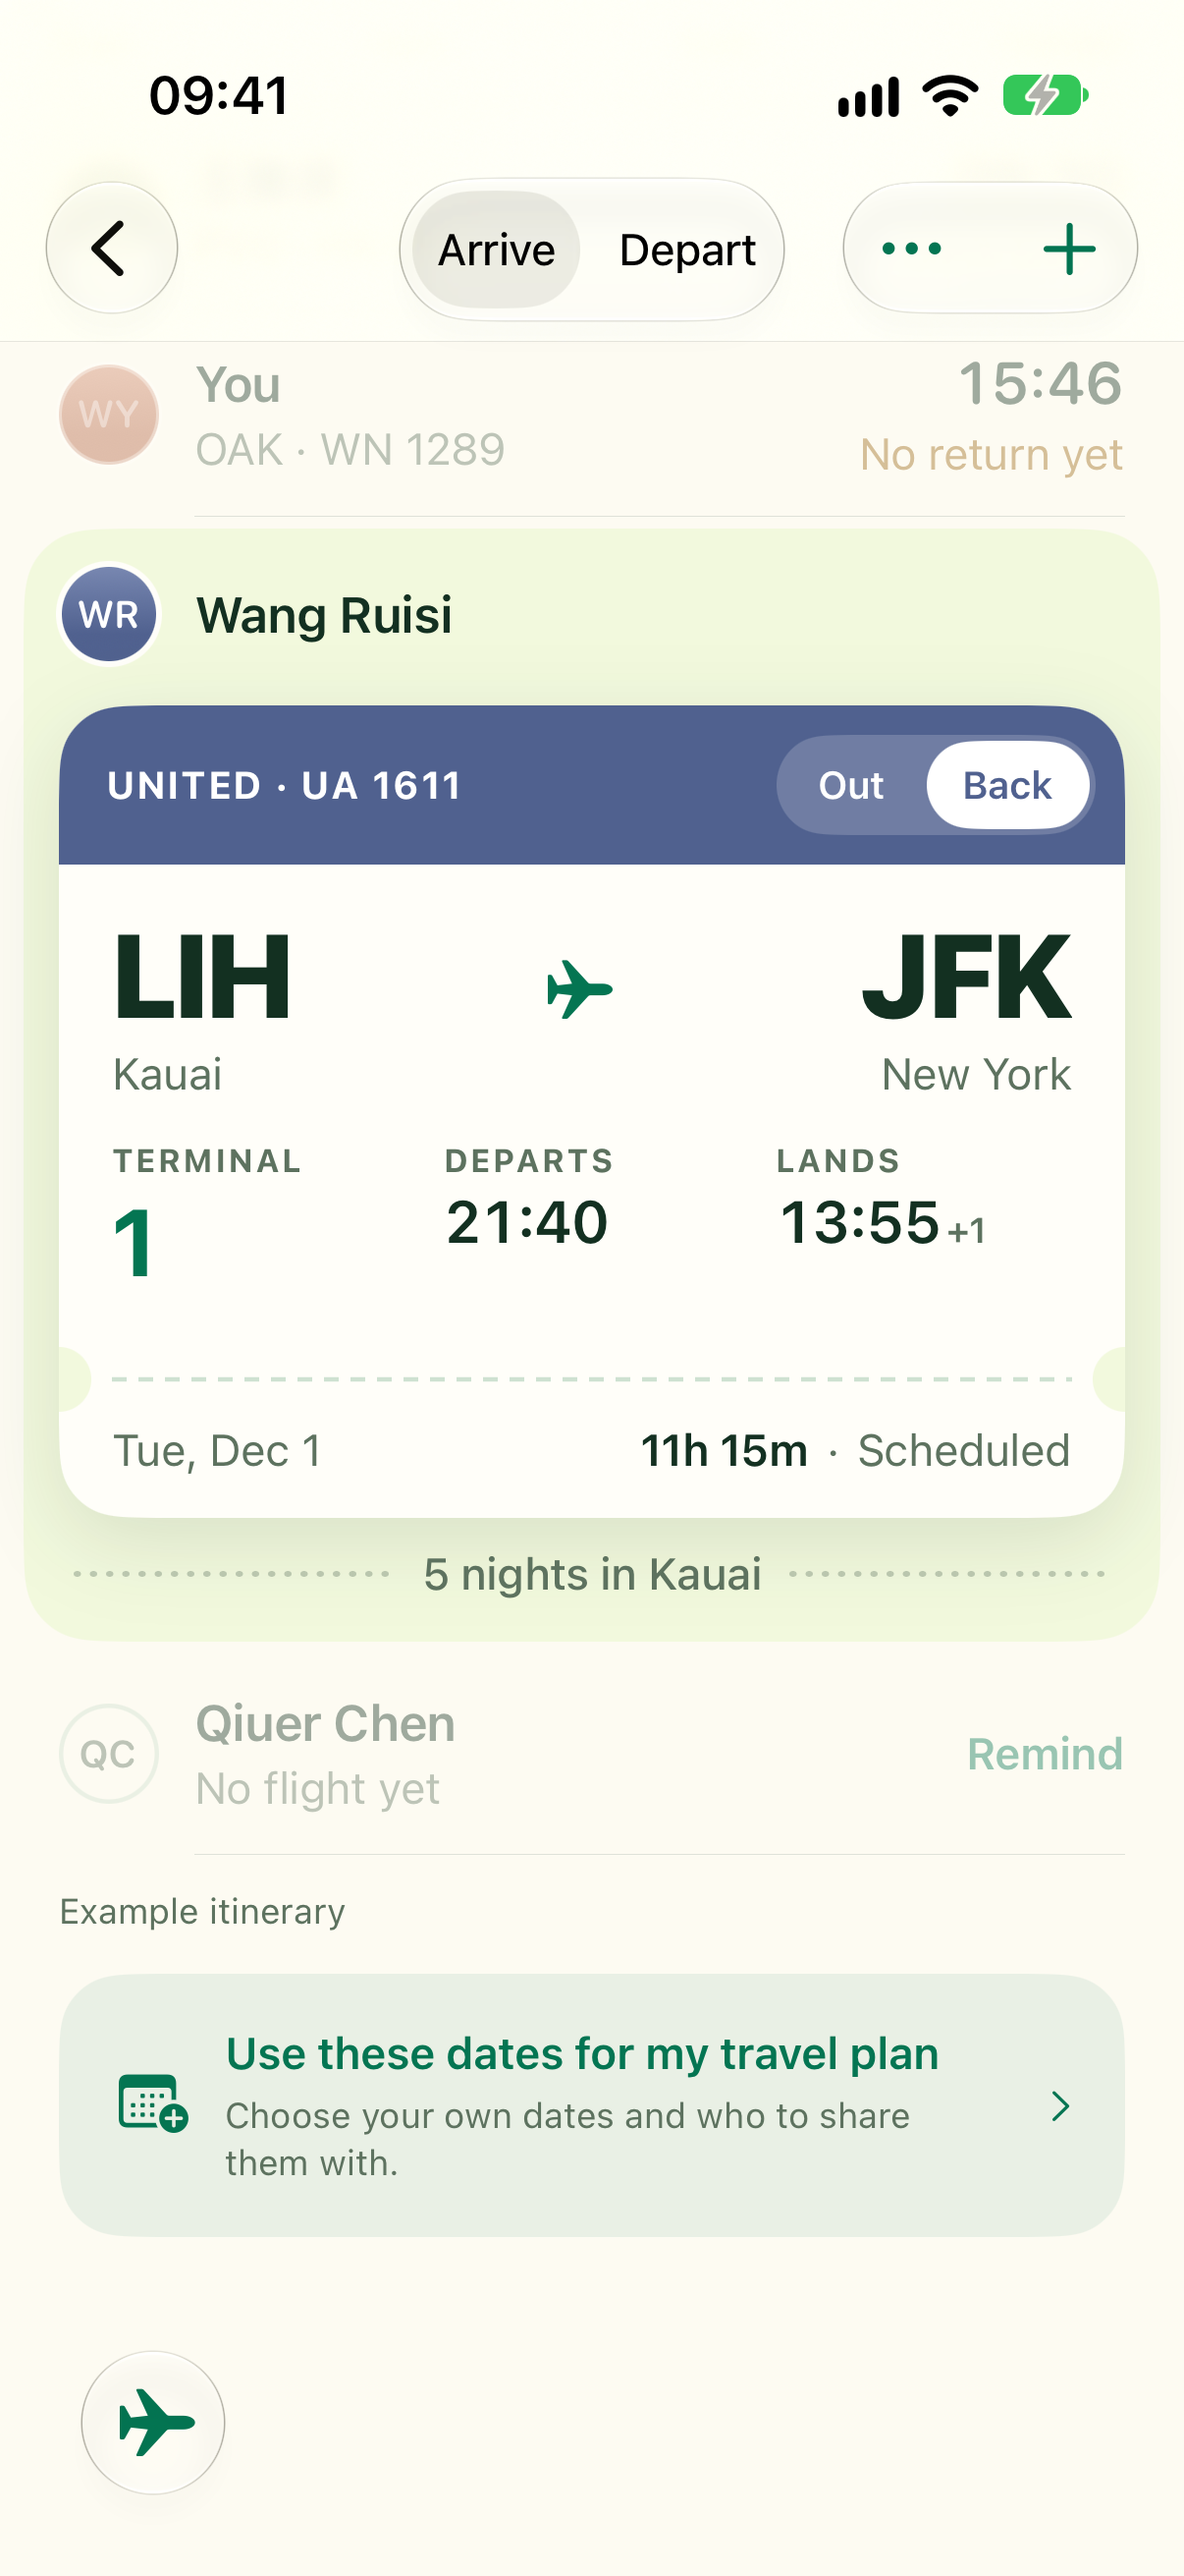
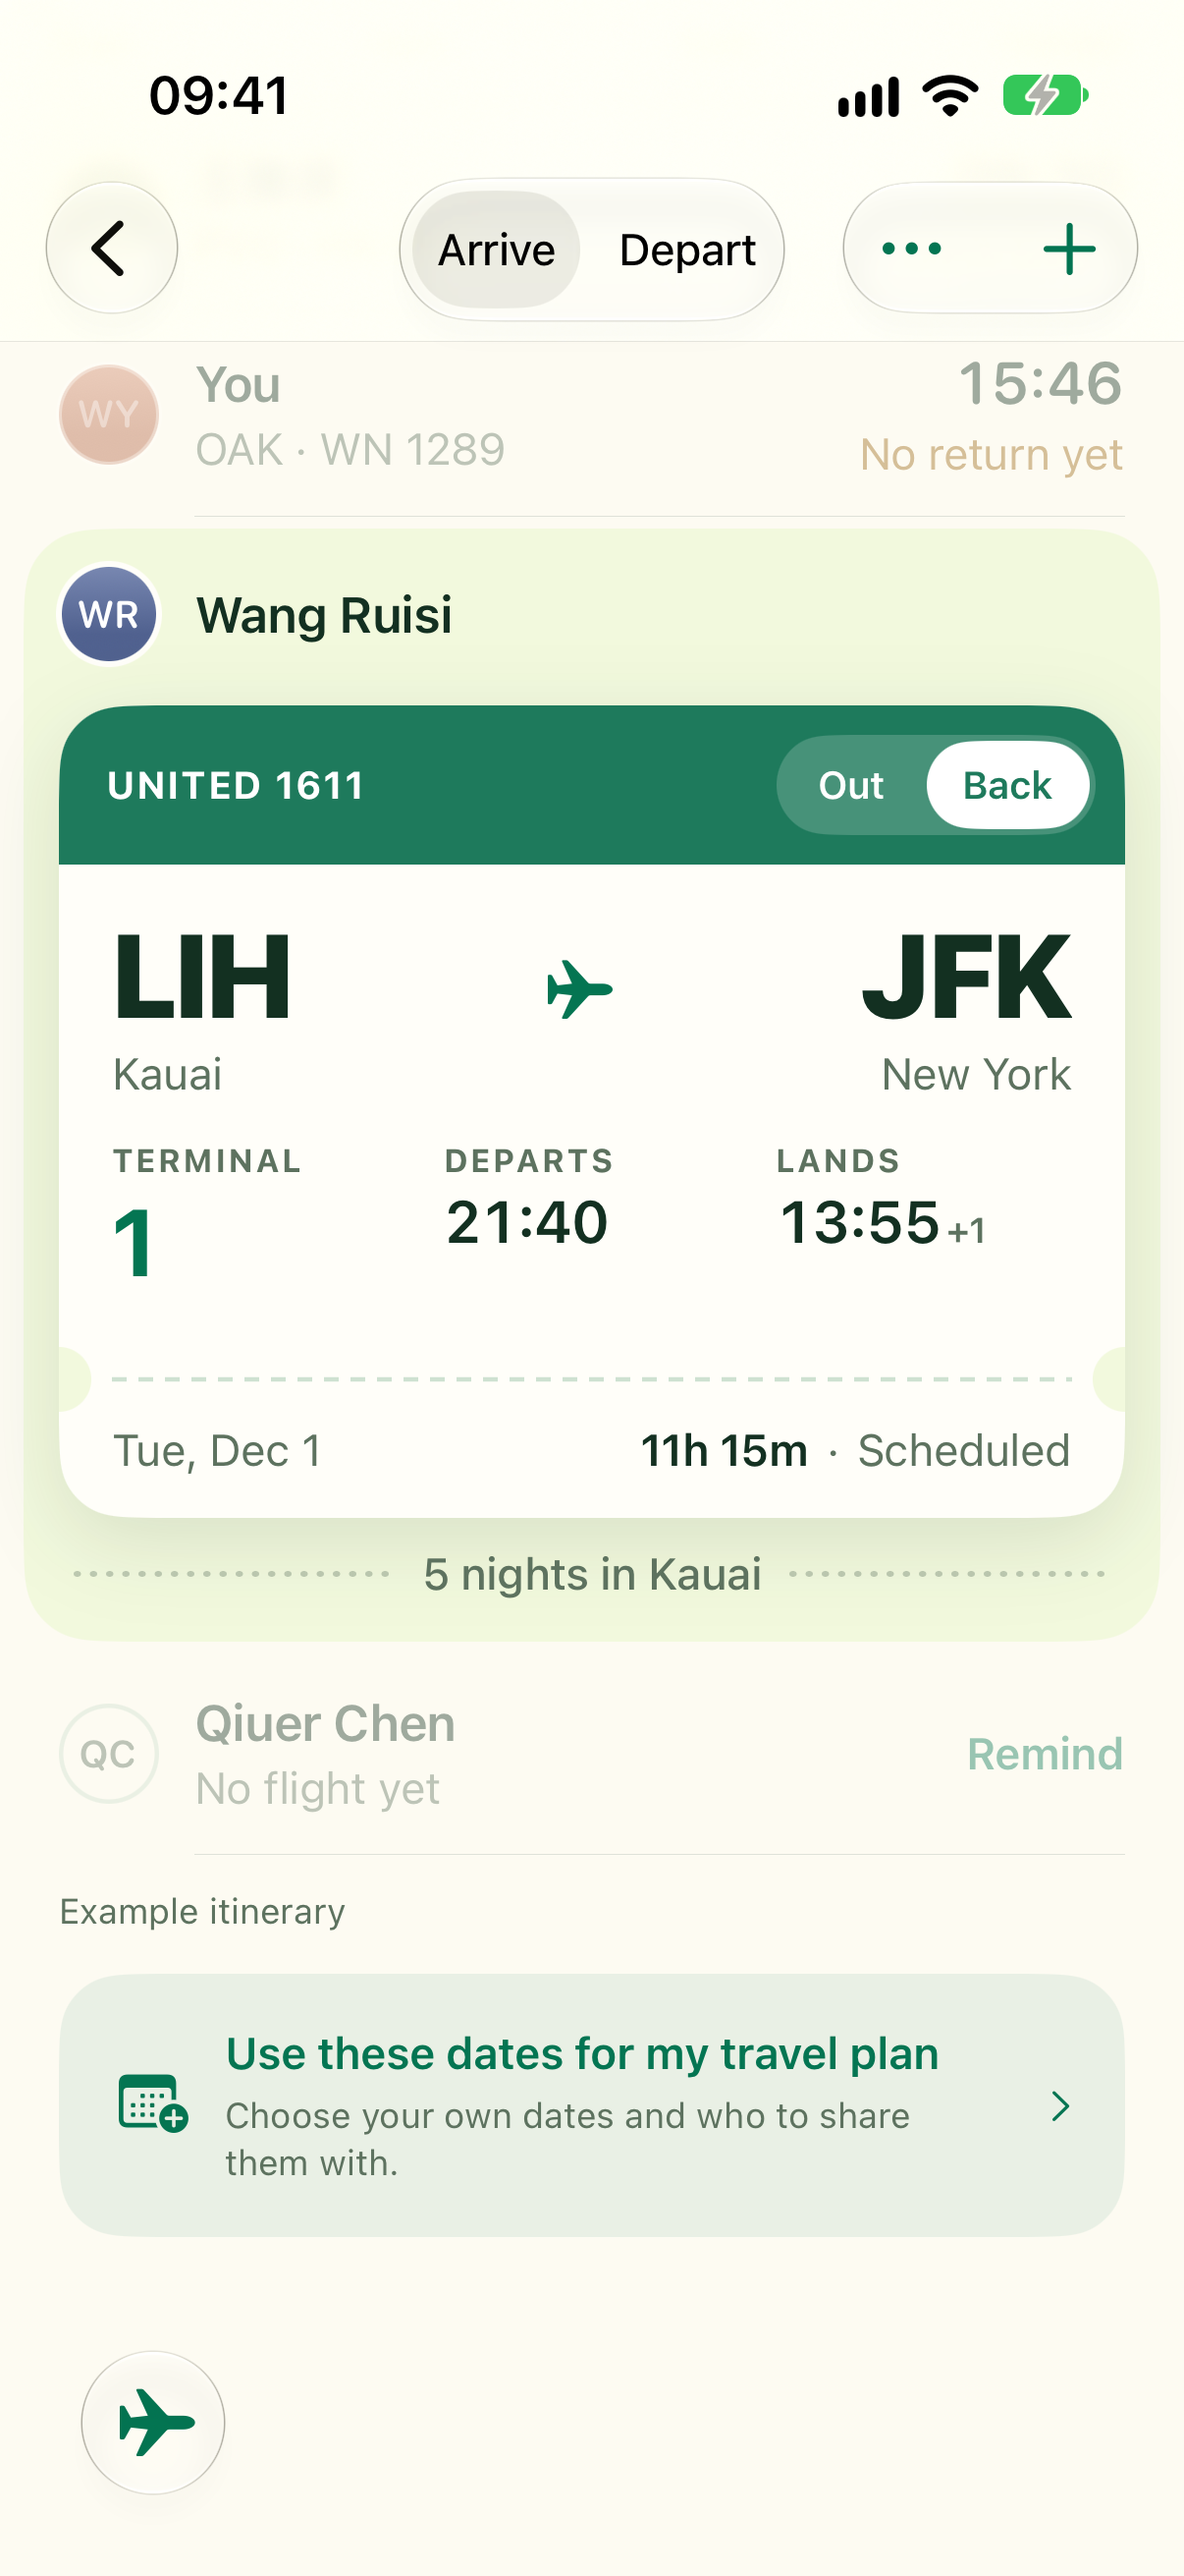
Give every boarding pass the app's jade band
Passes took each traveler's avatar color, so Ruisi's band came out slate
blue and others would be ochre or terracotta. Every pass now uses the app's
jade; a person's color stays on their avatar. The band reads like a printed
pass ("UNITED 1612"), as in the approved mock.

Changed region(s): [[0.0307, 0.2471, 0.9511, 0.3398]]

diff --git a/WhereIsMyFriend/Features/Trips/TripGlobeBoard.swift b/WhereIsMyFriend/Features/Trips/TripGlobeBoard.swift
@@ -594,6 +594,9 @@ struct TripBoardingPass: View {
 
     /// The opened row's background; the pass's notches are cut in this color.
     static var wash: Color { WIFTheme.freshSurface.opacity(0.32) }
+    /// Every pass wears the app's jade, whoever it belongs to; a person's own color stays on their avatar,
+    /// so the screen keeps one signature color instead of a different band per traveler.
+    static let band = WIFPersonPalette.fills[0]
 
     private var shown: TripDirection { face ?? leg }
     private var flight: TripFlight? { traveler.flight(shown) }
@@ -647,19 +650,23 @@ struct TripBoardingPass: View {
             .background(.white.opacity(0.18), in: Capsule())
         }
         .padding(.leading, 16).padding(.trailing, 10).padding(.vertical, 10)
-        .background(traveler.color)
+        .background(Self.band)
     }
 
     private var bandTitle: String {
         guard let flight else { return shown == .outbound ? String(localized: "Flight in") : String(localized: "Flight home") }
+        // "Southwest Airlines" + "WN 1289" reads as "SOUTHWEST 1289", as on a printed pass.
         let airline = flight.airline.replacingOccurrences(of: " Airlines", with: "").replacingOccurrences(of: " Air Lines", with: "")
-        return "\(airline) · \(flight.flightNumber)".uppercased()
+        let parts = flight.flightNumber.split(separator: " ")
+        let number = parts.count == 2 && parts[0].allSatisfy(\.isLetter) == false ? flight.flightNumber
+            : (parts.count == 2 ? String(parts[1]) : flight.flightNumber)
+        return airline == "Not verified" ? flight.flightNumber : "\(airline) \(number)".uppercased()
     }
 
     private func legButton(_ value: TripDirection, _ title: String, id: String) -> some View {
         Button(title) { leg = value }
             .font(.footnote.weight(.semibold))
-            .foregroundStyle(leg == value ? traveler.color : .white)
+            .foregroundStyle(leg == value ? Self.band : .white)
             .padding(.horizontal, 12).frame(minHeight: 30)
             .background(leg == value ? AnyShapeStyle(.white) : AnyShapeStyle(.clear), in: Capsule())
             .buttonStyle(.plain)

diff --git a/WhereIsMyFriendUITests/PrototypeUITests.swift b/WhereIsMyFriendUITests/PrototypeUITests.swift
@@ -1073,7 +1073,7 @@ final class PrototypeUITests: XCTestCase {
         XCTAssertTrue(ruisi.waitForExistence(timeout: 4))
         ruisi.press(forDuration: 0.15)
         XCTAssertEqual(ruisi.value as? String, "Details expanded")
-        XCTAssertTrue(app.staticTexts.containing(NSPredicate(format: "label CONTAINS %@", "UA 1612")).firstMatch.waitForExistence(timeout: 3))
+        XCTAssertTrue(app.staticTexts.containing(NSPredicate(format: "label CONTAINS %@", "UNITED 1612")).firstMatch.waitForExistence(timeout: 3))
         app.scrollViews["fullTripArrivalBoard"].swipeUp()
         Thread.sleep(forTimeInterval: 2)
         capture("\(prefix)-selected")
